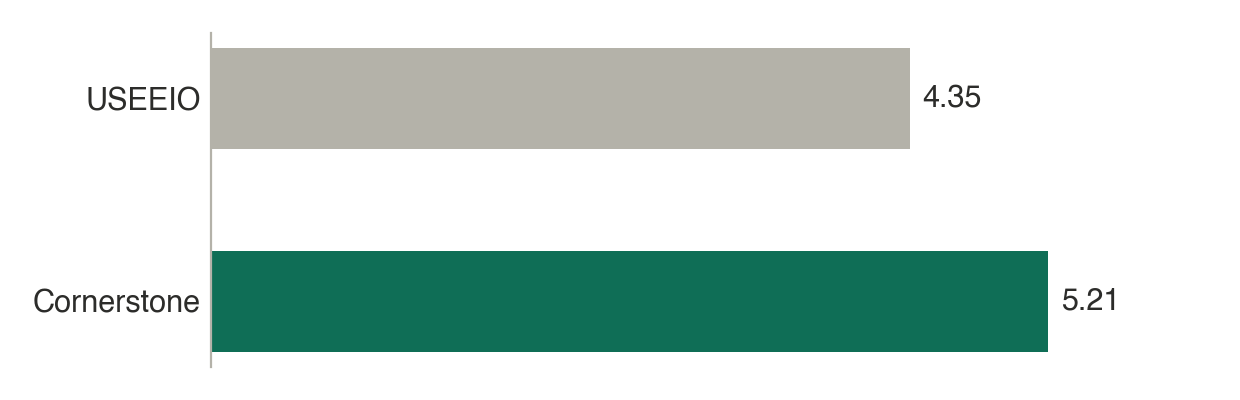
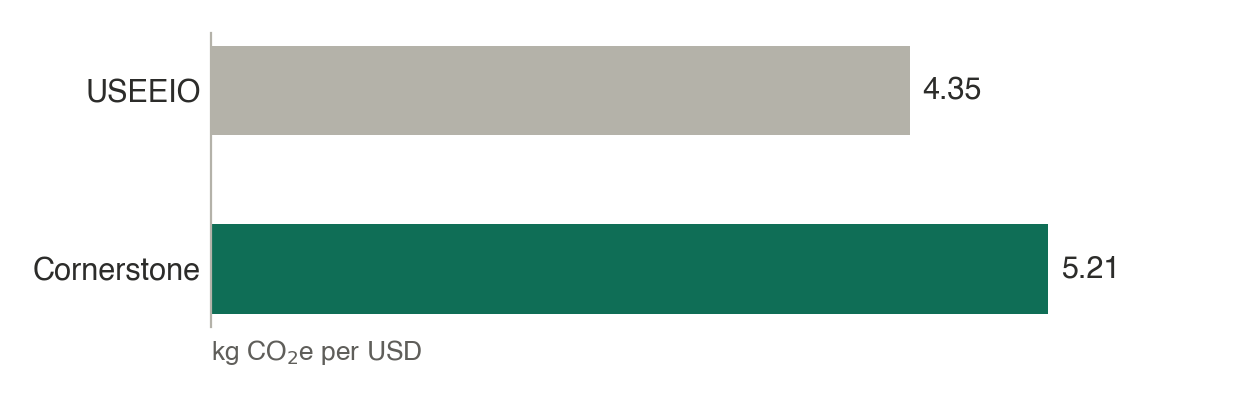
docs(releases): add kg CO2e per USD unit to the cement chart

diff --git a/figures/scripts/rc_summary_figures.py b/figures/scripts/rc_summary_figures.py
@@ -167,6 +167,7 @@ def cement():
     for s in ("top", "right", "bottom"):
         ax.spines[s].set_visible(False)
     ax.spines["left"].set_color("#B4B2A9"); ax.set_xticks([]); ax.tick_params(axis="y", length=0)
+    ax.set_xlabel("kg CO$_2$e per USD", color=MUTED, fontsize=9.5, loc="left")
     fig.tight_layout()
     fig.savefig(OUT / "cement-ef.png", facecolor="white")
     plt.close(fig)

diff --git a/releases/summary-useeio.md b/releases/summary-useeio.md
@@ -52,10 +52,10 @@ Cornerstone EEIO also uses facility-level reported emissions data from the US EP
 
 :::{figure} ../images/cement-ef.png
 :label: cement-ef
-:alt: Bar chart of the cement sector emission factor. USEEIO 4.35, Cornerstone 5.21.
+:alt: Bar chart of the cement sector emission factor in kg CO₂e per USD. USEEIO 4.35, Cornerstone 5.21.
 :width: 60%
 
-**Cement sector emission factor, USEEIO v1.4 and Cornerstone 2026.**
+**Cement sector emission factor, USEEIO v1.4 and Cornerstone 2026.** In kg CO₂e per USD.
 :::
 
 ### Trade impact: modeling imports
